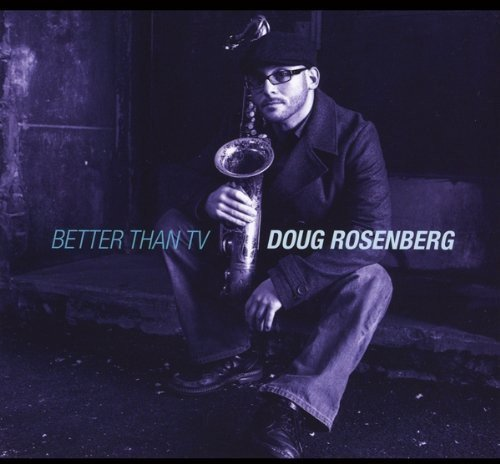
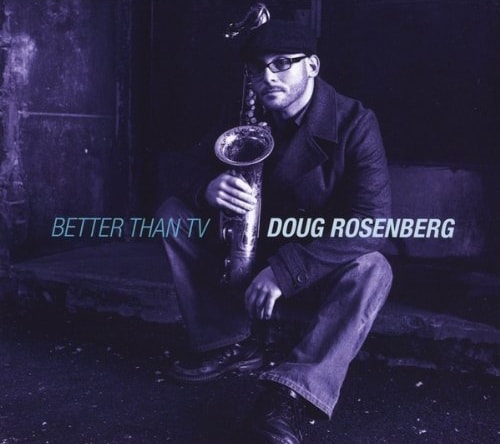
Crop the album scan bars and step the light section bands apart
The two cheapest points from the light bad-cop pass (Doug's ask):

- better-than-tv.jpg and underwater.jpg carried black scan bars that
  vanished on navy but printed as black strips on paper. Cropped to the
  artwork (500x444, 500x460); /easternblok's size map updated.
- On cream the About and Highlights bands sat 1.06:1 and 1.08:1 from the
  paper, so the page ran together. New --band-raised / --band-sunk tokens
  equal --bg-elevated / --surface in dark (unchanged) and step to #fffdf9
  and a kraft #e5dbc9 in light (1.10:1, 1.15:1). --surface is untouched,
  so forms and panels keep their measured contrast.

Verified: new unit test src/album-covers.test.js fails on the old files
(edge luma 1.0) and passes; new e2e band test fails with the old colors
(1.06) and passes. Unit 65/65, Playwright 342 passed / 0 failed (AA sweep
included), lint, astro check 0 errors, verify-csp 15 hashes. sharp pinned
as a dev dependency at the installed 0.35.4 for the test. Looked at it at
1440 in light; not checked on a real device.

diff --git a/site/e2e/theme.spec.ts b/site/e2e/theme.spec.ts
@@ -79,6 +79,53 @@ test.describe('light theme', () => {
     expect(await page.evaluate(() => getComputedStyle(document.body).backgroundColor)).toBe('rgb(244, 239, 230)');
   });
 
+  // On cream the section bands sat 1.06:1 (About) and 1.08:1 (Highlights,
+  // In Frame) from the paper, and the middle of the page ran together (bad
+  // cop, 2026-11-15). Light now steps them with their own tokens; each band
+  // must sit at least 1.09:1 from the paper, and the raised and sunk bands
+  // at least 1.2:1 from each other.
+  test('the section bands step clearly away from the paper', async ({ page }) => {
+    await page.goto('/');
+    const ratios = await page.evaluate(() => {
+      const lin = (v: number) => {
+        const c = v / 255;
+        return c <= 0.03928 ? c / 12.92 : ((c + 0.055) / 1.055) ** 2.4;
+      };
+      // the bands are color-mix(token 78%, transparent) over the paper
+      const onPaper = (hex: string) => {
+        const p = [0xf4, 0xef, 0xe6];
+        const t = [1, 3, 5].map((i) => parseInt(hex.slice(i, i + 2), 16));
+        const [r, g, b] = t.map((v, i) => v * 0.78 + p[i] * 0.22).map(lin);
+        return 0.2126 * r + 0.7152 * g + 0.0722 * b;
+      };
+      const ratio = (a: number, b: number) => (Math.max(a, b) + 0.05) / (Math.min(a, b) + 0.05);
+      const root = getComputedStyle(document.documentElement);
+      const paper = onPaper(root.getPropertyValue('--bg').trim());
+      const raised = onPaper(root.getPropertyValue('--band-raised').trim());
+      const sunk = onPaper(root.getPropertyValue('--band-sunk').trim());
+      const uses = (sel: string, token: string) =>
+        getComputedStyle(document.querySelector(sel)!).backgroundColor ===
+        (() => {
+          const probe = document.createElement('div');
+          probe.style.background = `color-mix(in srgb, var(${token}) 78%, transparent)`;
+          document.body.append(probe);
+          const c = getComputedStyle(probe).backgroundColor;
+          probe.remove();
+          return c;
+        })();
+      return {
+        raised: ratio(raised, paper),
+        sunk: ratio(sunk, paper),
+        apart: ratio(raised, sunk),
+        wired: uses('.about', '--band-raised') && uses('.career-highlights', '--band-sunk') && uses('.gallery', '--band-sunk'),
+      };
+    });
+    expect(ratios.wired).toBe(true);
+    expect(ratios.raised).toBeGreaterThanOrEqual(1.09);
+    expect(ratios.sunk).toBeGreaterThanOrEqual(1.09);
+    expect(ratios.apart).toBeGreaterThanOrEqual(1.2);
+  });
+
   // The light hero is a sleeve (2026-11-15): the photo is a framed print in
   // the flow, beside the text from 1025px and above it below that; the
   // dark-only layers are gone; nothing overlaps the photo, including the

diff --git a/site/src/album-covers.test.js b/site/src/album-covers.test.js
@@ -1,0 +1,40 @@
+import { test } from "node:test";
+import assert from "node:assert/strict";
+import { readFileSync, readdirSync } from "node:fs";
+import sharp from "sharp";
+
+// Two of the album scans carried black bars along the top and bottom
+// (better-than-tv.jpg 11 and 6 rows, underwater.jpg 18 and 18). On the dark
+// theme they vanished into the navy; on the light theme's paper they read as
+// heavy black strips (bad cop, 2026-11-15), so the files were cropped. A
+// scan bar averages about luma 1; the darkest real edge (Better Than TV's
+// own top row) averages above 20.
+
+sharp.cache(false);
+const dir = new URL("../public/images/albums/", import.meta.url);
+
+test("no album cover has a black scan bar along an edge", async () => {
+	const files = readdirSync(dir).filter((f) => f.endsWith(".jpg"));
+	assert.ok(files.length >= 4, "expected the four album covers");
+	for (const f of files) {
+		const { data, info } = await sharp(readFileSync(new URL(f, dir)))
+			.greyscale()
+			.raw()
+			.toBuffer({ resolveWithObject: true });
+		const { width: W, height: H } = info;
+		const row = (y) => {
+			let s = 0;
+			for (let x = 0; x < W; x++) s += data[y * W + x];
+			return s / W;
+		};
+		const col = (x) => {
+			let s = 0;
+			for (let y = 0; y < H; y++) s += data[y * W + x];
+			return s / H;
+		};
+		const edges = { top: row(0), bottom: row(H - 1), left: col(0), right: col(W - 1) };
+		for (const [edge, luma] of Object.entries(edges)) {
+			assert.ok(luma > 10, `${f} ${edge} edge averages luma ${luma.toFixed(1)}`);
+		}
+	}
+});

diff --git a/site/src/styles/global.css b/site/src/styles/global.css
@@ -114,6 +114,9 @@
      photo/content sits behind them, not blend into it */
   --bg-elevated: #101623;
   --surface: #131a26;
+  /* section bands (About raised; Highlights and In Frame sunk) */
+  --band-raised: var(--bg-elevated);
+  --band-sunk: var(--surface);
   --text: #e9edf5;
   --text-muted: rgba(233, 237, 245, 0.62);
   --text-faint: rgba(233, 237, 245, 0.52);
@@ -155,6 +158,11 @@
   --bg: #f4efe6;
   --bg-elevated: #fbf8f2;
   --surface: #ebe4d6;
+  /* Bands stepped further from the paper than the surfaces (2026-11-15, bad
+     cop: on cream the sections ran together). Sunk is a kraft tone; every
+     light accent still clears 4.6:1 on it at the bands' 78% mix. */
+  --band-raised: #fffdf9;
+  --band-sunk: #e5dbc9;
   --text: #1f1b16;
   --text-muted: rgba(31, 27, 22, 0.74);
   --text-faint: rgba(31, 27, 22, 0.64);

diff --git a/docs/ui-assessment-2026-10-24.md b/docs/ui-assessment-2026-10-24.md
@@ -506,12 +506,12 @@ Same reviewer who built the light theme, so allow about three points either way.
 | Mobile | 13 | 13 | Emulator only: stacks cleanly, no sideways scroll. Provisional until a real phone. |
 
 **Bad cop: about 80 / 100.** What costs points:
-1. **Black edges on album covers.** `better-than-tv.jpg` and `underwater.jpg` carry black scan borders in the
+1. ~~**Black edges on album covers.** `better-than-tv.jpg` and `underwater.jpg` carry black scan borders in the
    files themselves. On navy they vanished; on paper the lead album gets a black strip top and bottom, and
-   Underwater a thick black base. Fix: crop the two files.
-2. **One paper for every section.** The About band is a shade lighter and Highlights a shade darker, but on
+   Underwater a thick black base. Fix: crop the two files.~~ Fixed the same day, see below.
+2. ~~**One paper for every section.** The About band is a shade lighter and Highlights a shade darker, but on
    cream the steps are smaller than the navy ones, so the middle of the page runs together again (11-01
-   point 3, back in light only).
+   point 3, back in light only).~~ Fixed the same day, see below.
 3. **Same photo twice in a row.** The hero print and the About print are the same photo in the same brass
    frame, one screen apart.
 4. **Empty halves.** Quick answers, the Dev intro and the archive pages leave their right side empty. Not new
@@ -533,3 +533,21 @@ Cheapest points: crop the two album covers (point 1), then step the band colors 
 |---|---|---|---|---|
 | 2026-11-15 | good cop | `light-mode-draft-2026-11-15` at 76b06af, light, desktop plus phone emulation | about 89 | First light score; dark is about 92 |
 | 2026-11-15 | bad cop | same | about 80 | Black edges on two album covers, sections run together on paper, hero and About share a photo, empty halves |
+
+### Light easy wins, 2026-11-15 (same branch)
+
+Doug asked for the two cheapest light bad-cop points:
+- **Covers (point 1):** cropped the black scan bars off `better-than-tv.jpg` (12 rows top, 8 bottom, now
+  500x444) and `underwater.jpg` (20 and 20, now 500x460; the `/easternblok` size map updated to match). This
+  also changes dark, where the bars were invisible anyway. New unit test `src/album-covers.test.js` checks
+  all four edges of every cover; it fails on the old files (Better Than TV's top edge averages luma 1.0) and
+  passes now. `sharp` is pinned as a dev dependency at the version Astro already installed (0.35.4) so the
+  test doesn't lean on a transitive package.
+- **Bands (point 2):** new `--band-raised` and `--band-sunk` tokens. Dark maps them to `--bg-elevated` and
+  `--surface`, so dark is unchanged. Light uses `#fffdf9` (About) and a kraft `#e5dbc9` (Highlights, In
+  Frame): 1.10:1 and 1.15:1 from the paper, up from 1.06:1 and 1.08:1. `--surface` itself is unchanged, so
+  forms and panels keep their measured contrast. New test in `e2e/theme.spec.ts`; it fails with the old
+  colors (1.06) and passes now. The AA sweep passes on the new bands.
+- Full Playwright both projects 342 passed, unit 65/65, lint, astro check and `verify-csp` clean. Looked at
+  Recordings, Highlights and In Frame at 1440 in light. Not re-scored and not checked on a real device; I
+  expect about +2 on the light bad cop.

diff --git a/docs/style-guide.md b/docs/style-guide.md
@@ -56,6 +56,8 @@ black. The same token names carry both sets, so components don't know which them
 | `--bg` | `#0a0e17` | `#f4efe6` | |
 | `--bg-elevated` | `#101623` | `#fbf8f2` | |
 | `--surface` | `#131a26` | `#ebe4d6` | |
+| `--band-raised` | `--bg-elevated` | `#fffdf9` | About band; 1.10:1 from the paper at the band's 78% mix |
+| `--band-sunk` | `--surface` | `#e5dbc9` (kraft) | Highlights and In Frame bands; 1.15:1 from the paper; every light accent at least 4.67:1 on it |
 | `--text` | `#e9edf5` | `#1f1b16` | 14.95 / 16.15 / 13.53 |
 | `--text-muted` | text at 0.62 | text at 0.74 | 6.77 / 7.09 / 6.41 |
 | `--text-faint` | text at 0.52 | text at 0.64 | 4.89 / 5.01 / 4.71 |
@@ -245,8 +247,15 @@ How much, by kind:
   Examples: `.performance__venue-list--marquee`, `.performance__artists-feature`,
   `.career-highlights__feature`. Checked by `e2e/bad-cop-fixes.spec.ts`.
 - **Section rhythm (2026-11-01 rule)**: neighbouring sections must not share one flat background.
-  Alternate plain `--bg` sections with raised bands (`--bg-elevated` or `--surface` plus hairline
-  top and bottom rules): Recordings plain, About band, On the Road plain, Highlights band.
+  Alternate plain `--bg` sections with raised bands (`--band-raised` or `--band-sunk` plus hairline
+  top and bottom rules): Recordings plain, About band, On the Road plain, Highlights band. The band
+  tokens equal `--bg-elevated` and `--surface` in dark; light steps them further from the paper
+  (2026-11-15), because on cream the surface steps were too small and the sections ran together.
+  `e2e/theme.spec.ts` holds each light band at least 1.09:1 from the paper and the two at least
+  1.2:1 apart.
+- **Album covers have no scan bars.** Cover files are cropped to the artwork; a black scan border
+  vanishes on navy but prints as a black strip on paper (`better-than-tv.jpg` and `underwater.jpg`
+  were cropped 2026-11-15). `src/album-covers.test.js` checks every cover's four edges.
 - **Lead item (2026-11-01 rule)**: a grid of equal items gets one lead at 760px and up (the debut
   album is `.album--lead`). The lead spans the rows of one column and the rest stack as rows in the
   other, so the two columns end level; a lead in a one-row grid leaves dead space under its
